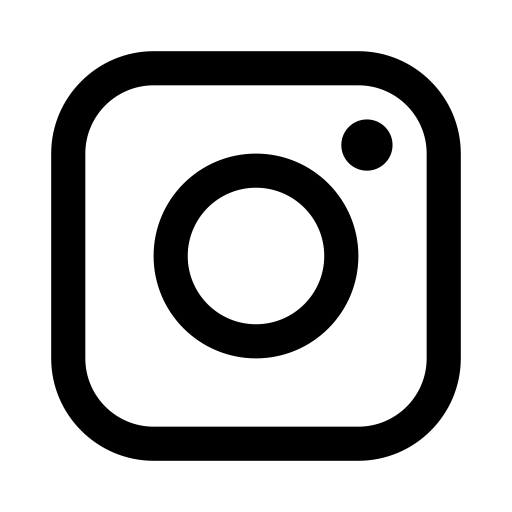
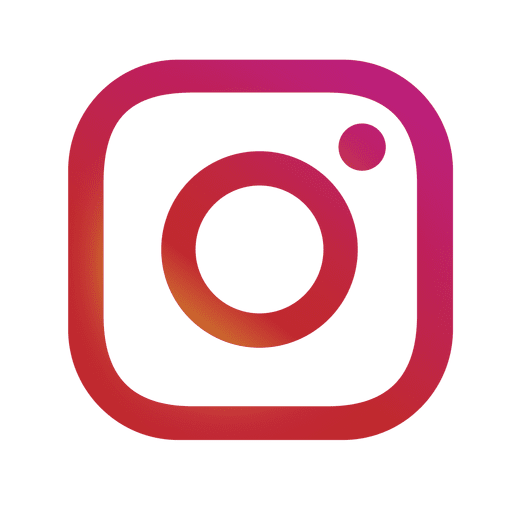
menu V2

diff --git a/Html/Index.html b/Html/Index.html
@@ -10,14 +10,14 @@
         <main>
             <div class="header-1">
                 <div class="logo">
-                    <img src="../Img/logo.png" alt="">
+                    <img src="../Imagens/Logo.png" alt="" width="120px" height="70px">
                 </div>
                 <div class="redes-sociais">
                     <ul>
-                        <li><a href="#"><img src="../Img/Wif..png" alt=""></a></li>
-                        <li><a href="#"><img src="../Img/Facebook.png" alt=""></a></li>
-                        <li><a href="#"><img src="../Img/Twitter.png" alt=""></a></li>
-                        <li><a href="#"><img src="../Img/Linkdin.png" alt=""></a></li>
+                        <li><a href="#"><img src="../Imagens/Instagram.png" alt=""  width="40px" height="40px"></a></li>
+                        <li><a href="#"><img src="../Imagens/Facebook.png" alt="" width="40px" height="40px"></a></li>
+                        <li><a href="#"><img src="../Imagens/Youtube.png" alt="" width="40px" height="40px"></a></li>
+                        <li><a href="#"><img src="../Imagens/Linkdin.png" alt="" width="45px" height="45px"></a></li>
                     </ul>
     
                 </div>
@@ -29,22 +29,17 @@
             <div class="menu">
                 <ul>
                     <li>
+                        <a href="">VersaoNERD</a>
+                    </li>
+                    <li>
                         <a href="">Home</a>
                     </li>
                     <li>
-                        <a href="">About Us</a>
+                        <a href="">Games</a>
                     </li>
                     <li>
-                        <a href="">Service</a>
-                    </li>
                     <li>
-                        <a href="">Pages</a>
-                    </li>
-                    <li>
-                        <a href="">Blog</a>
-                    </li>
-                    <li>
-                        <a href="">Contacts</a>
+                        <a href="">Em Ofertas</a>
                     </li>
                 </ul>
             </div>

diff --git a/Css/Index.css b/Css/Index.css
@@ -10,7 +10,7 @@ ul {
 .menu-principal {
     width: 100%;
     background-color: #252323;
-    height: 60px;
+    height: 70px;
 }
 
 main {
@@ -21,7 +21,7 @@ main {
 
 .logo {
     float: left;
-    padding: 16px;
+    padding: 0px;
     width: 70%;
 }
 
@@ -61,11 +61,11 @@ main {
 }
 
 .menu {
-    width: 70%;
+    width: 50%;
     float: left;
 }
 .busca {
-    width: 30%;
+    width: 50%;
     float:right;
     text-align: center;
 }
@@ -74,8 +74,8 @@ main {
     height: 36px;
     margin-top: 10px;
     padding: 12px;
-    width: 190px;
-    background-image: url('../Img/busca.png');
+    width: 400px;
+    background-image: url('../Imagens/busca.png');
     background-repeat: no-repeat;
     background-position: 96%;
     border: 1px solid #d6d6d6;
